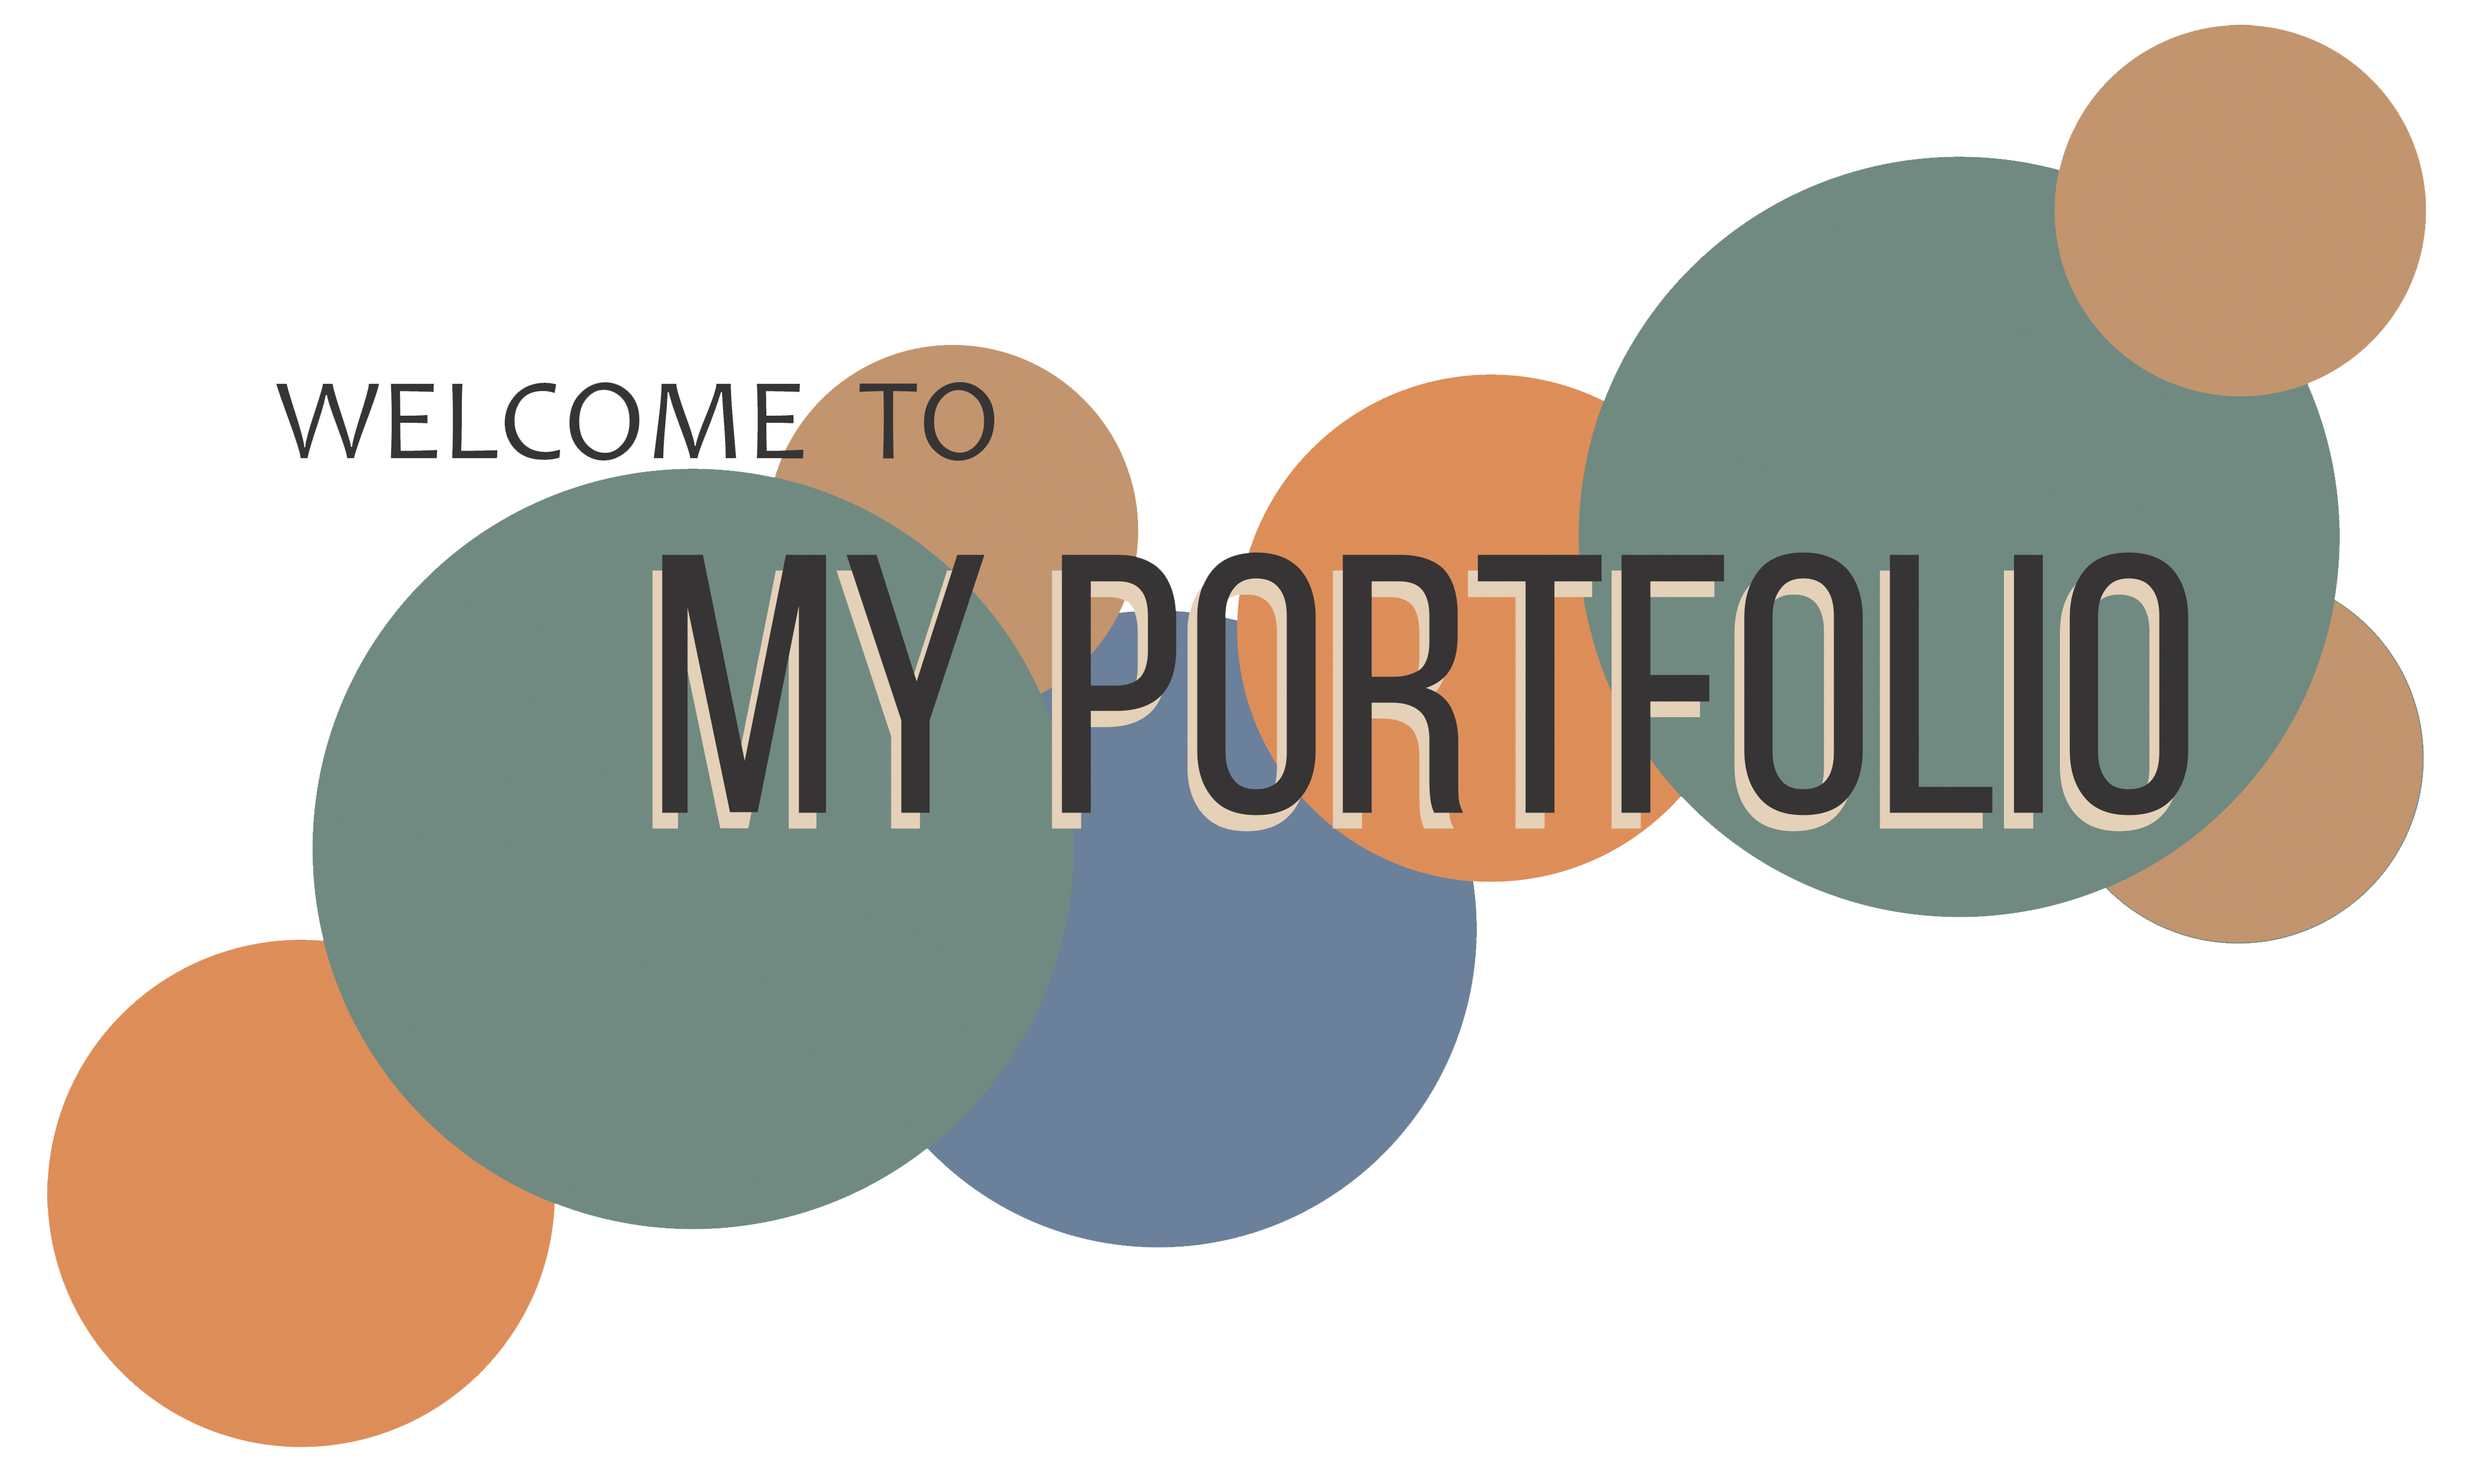
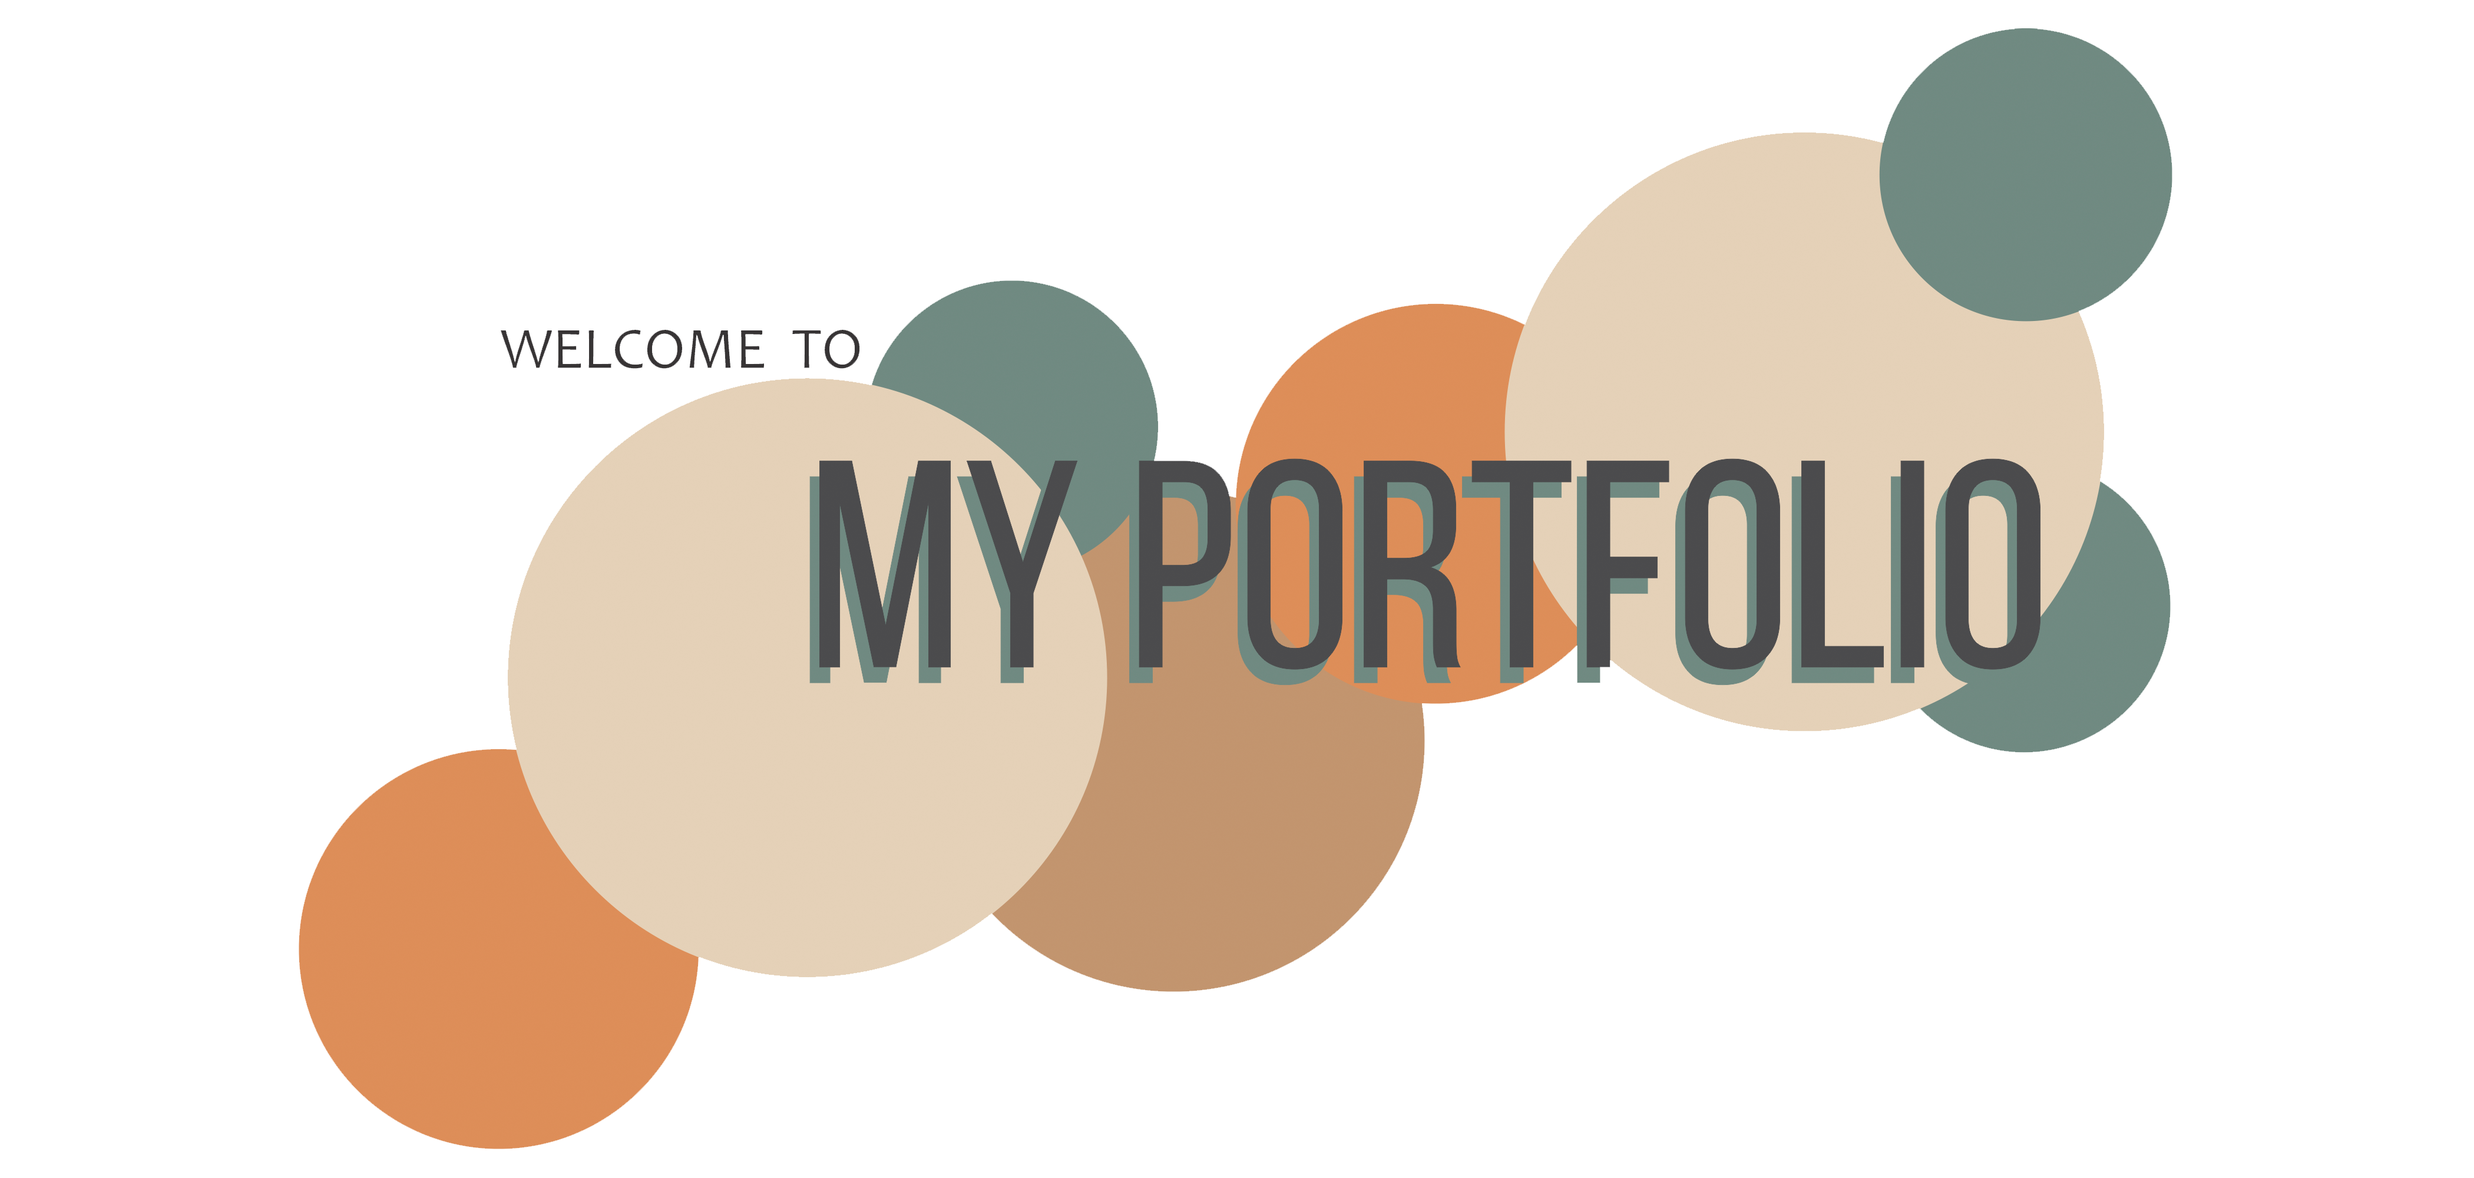
se agrego el acerca de

diff --git a/PI_NN/src/app/components/acerca-de/acerca-de.component.html b/PI_NN/src/app/components/acerca-de/acerca-de.component.html
@@ -1,0 +1,20 @@
+<div Class="row">
+    <div Class="col-xs-12 col-sm-2 col-md-2 col-lg-2">
+        <img src="../../../assets/FOTO 1.jpeg" Class="img-fluid">
+    </div>
+    <div class="col-xs-12 col-sm-2 col-md-2 col-lg-2">
+        <p>Nessmann Nahir</p>
+        <p>Full Stack Developer Jr</p>
+    </div>
+    <div class="col-xs-12 col-sm-8 col-md-8 col-lg-8">
+        <Span>
+            <h1>Acerca de mi</h1>
+            <p>Lorem ipsum dolor sit, amet consectetur 
+                adipisicing elit. Perferendis quis minima 
+                quidem facilis velit nesciunt repellat sit, 
+                incidunt, vel itaque aspernatur ducimus, dolorum 
+                corrupti. Expedita perferendis blanditiis 
+                voluptatem doloremque maxime.</p>
+        </Span>
+    </div>
+</div>

diff --git a/PI_NN/src/app/app.module.ts b/PI_NN/src/app/app.module.ts
@@ -7,6 +7,7 @@ import { HeaderComponent } from './components/header/header.component';
 import { LogoAPComponent } from './components/logo-ap/logo-ap.component';
 import { SocialComponent } from './components/social/social.component';
 import { BannerComponent } from './components/banner/banner.component';
+import { AcercaDeComponent } from './components/acerca-de/acerca-de.component';
 
 @NgModule({
   declarations: [
@@ -14,7 +15,8 @@ import { BannerComponent } from './components/banner/banner.component';
     HeaderComponent,
     LogoAPComponent,
     SocialComponent,
-    BannerComponent
+    BannerComponent,
+    AcercaDeComponent
   ],
   imports: [
     BrowserModule,

diff --git a/PI_NN/src/app/components/acerca-de/acerca-de.component.spec.ts b/PI_NN/src/app/components/acerca-de/acerca-de.component.spec.ts
@@ -1,0 +1,23 @@
+import { ComponentFixture, TestBed } from '@angular/core/testing';
+
+import { AcercaDeComponent } from './acerca-de.component';
+
+describe('AcercaDeComponent', () => {
+  let component: AcercaDeComponent;
+  let fixture: ComponentFixture<AcercaDeComponent>;
+
+  beforeEach(async () => {
+    await TestBed.configureTestingModule({
+      declarations: [ AcercaDeComponent ]
+    })
+    .compileComponents();
+
+    fixture = TestBed.createComponent(AcercaDeComponent);
+    component = fixture.componentInstance;
+    fixture.detectChanges();
+  });
+
+  it('should create', () => {
+    expect(component).toBeTruthy();
+  });
+});

diff --git a/PI_NN/src/app/components/acerca-de/acerca-de.component.ts b/PI_NN/src/app/components/acerca-de/acerca-de.component.ts
@@ -1,0 +1,10 @@
+import { Component } from '@angular/core';
+
+@Component({
+  selector: 'app-acerca-de',
+  templateUrl: './acerca-de.component.html',
+  styleUrls: ['./acerca-de.component.css']
+})
+export class AcercaDeComponent {
+
+}

diff --git a/PI_NN/src/app/components/header/header.component.css b/PI_NN/src/app/components/header/header.component.css
@@ -1,5 +1,5 @@
 div{
-    background-color: #708a81;
+    background-color: #e5d1b8;
 }
 
 app-social{

diff --git a/PI_NN/src/app/components/banner/banner.component.css b/PI_NN/src/app/components/banner/banner.component.css
@@ -1,4 +1,4 @@
 img{
     width: 100%;
-    height: 650px;
+    height: 600px;
 }

diff --git a/PI_NN/src/app/app.component.html b/PI_NN/src/app/app.component.html
@@ -1,1 +1,2 @@
 <app-header></app-header>
+<app-acerca-de></app-acerca-de>

diff --git a/PI_NN/src/app/components/social/social.component.css b/PI_NN/src/app/components/social/social.component.css
@@ -1,3 +1,3 @@
 img{
-    width: 50px;
+    width: 40px;
 }
